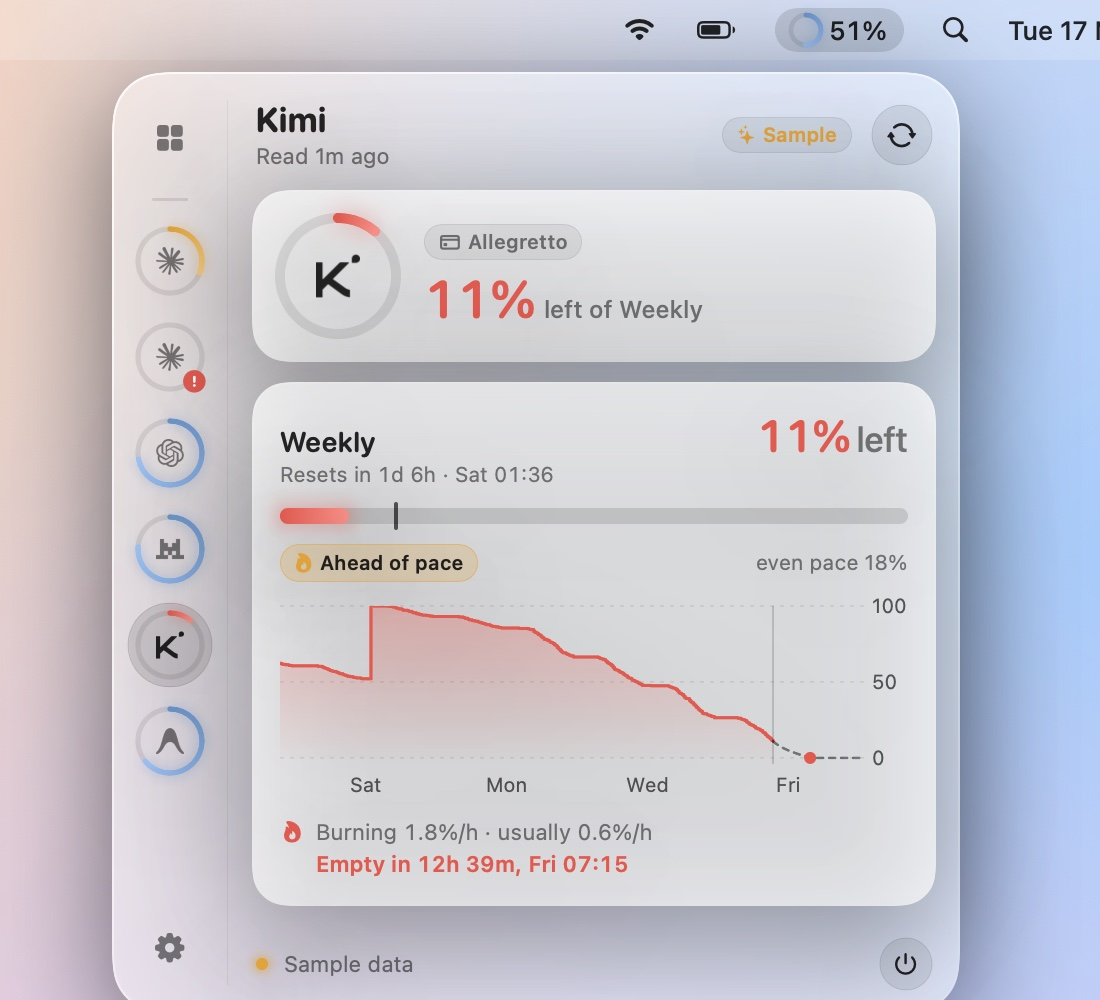
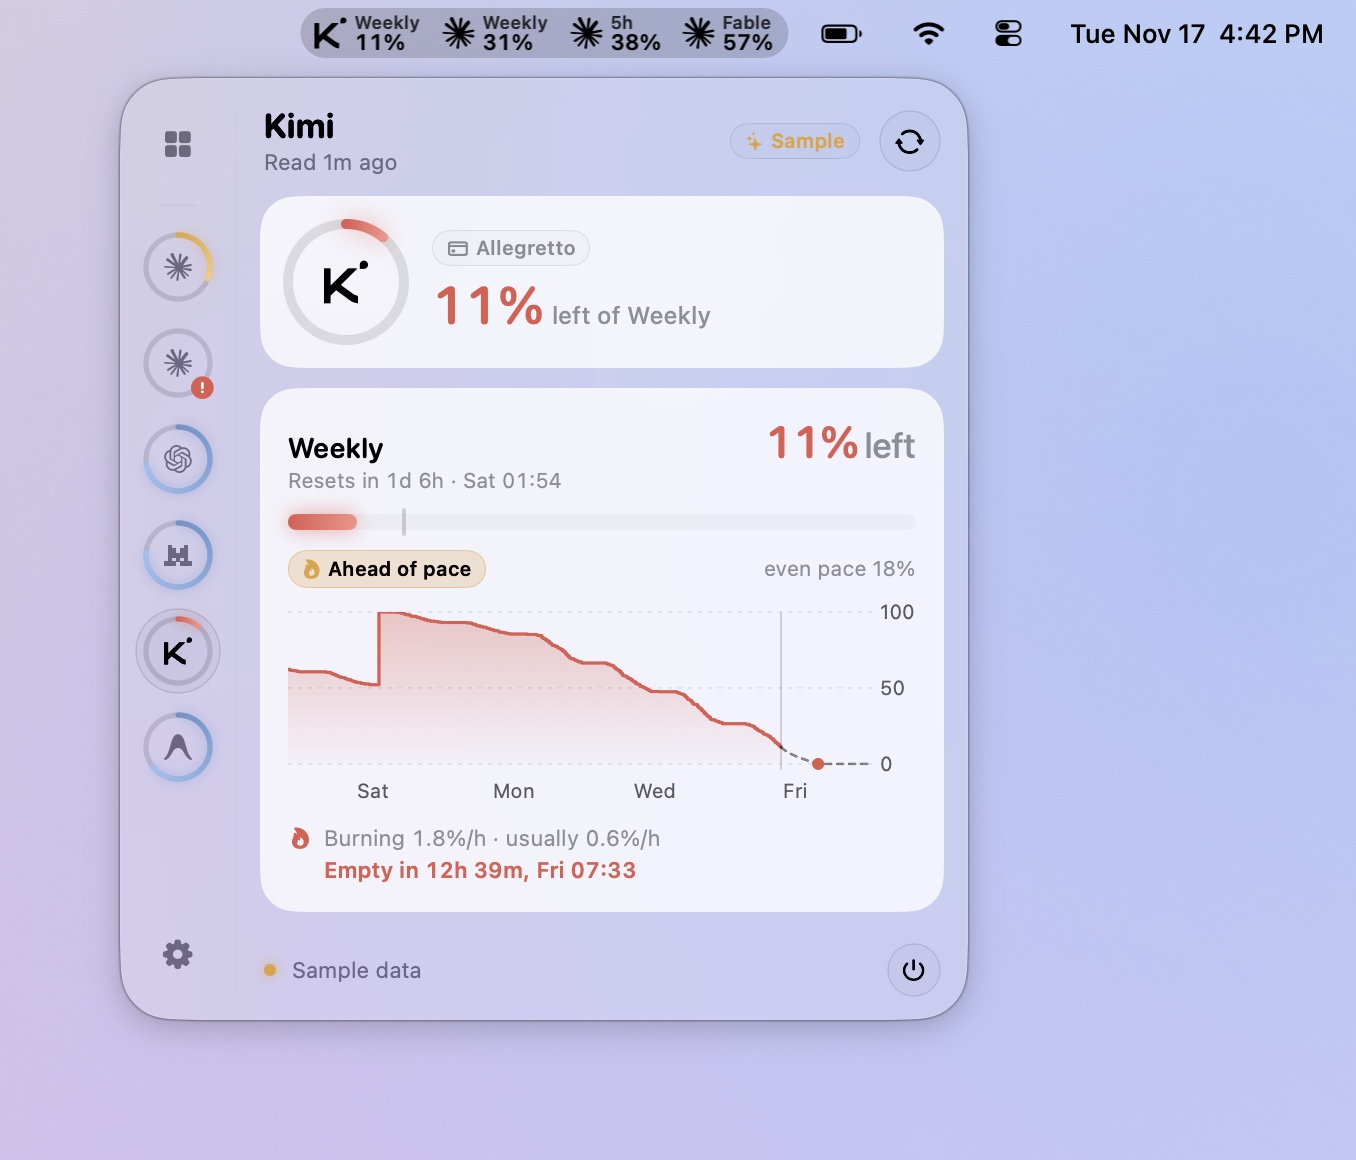
Mac pictures in real Liquid Glass
AiUsageMac --demo --live-shot poses the real panel over a wallpaper of its
own, with a menu bar of its own holding the app's real item, and leaves the
picture to screencapture: the window server draws glass only on screen. No
part of the real menu bar or desktop gets into it.

diff --git a/my-usage-mac/Sources/AiUsageMac/StatusController.swift b/my-usage-mac/Sources/AiUsageMac/StatusController.swift
@@ -129,6 +129,10 @@ final class StatusController: NSObject {
             let walls = CommandLine.arguments[(index + 2)...].prefix { !$0.hasPrefix("--") }
             Task { await Showcase.render(model: model, to: folder, wallpapers: Array(walls)) }
         }
+        if let index = CommandLine.arguments.firstIndex(of: "--live-shot"), index + 3 < CommandLine.arguments.count {
+            let args = CommandLine.arguments
+            Task { await liveShots(dark: args[index + 1], light: args[index + 2], folder: URL(fileURLWithPath: args[index + 3])) }
+        }
         if let index = CommandLine.arguments.firstIndex(of: "--snapshot"), index + 1 < CommandLine.arguments.count {
             let folder = URL(fileURLWithPath: CommandLine.arguments[index + 1])
             Task { await snapshots(to: folder) }
@@ -186,7 +190,9 @@ final class StatusController: NSObject {
     }
 
     private func close() {
-        guard isOpen else { return }
+        // While posing for `--live-shot`, focus moving to the backdrop is not
+        // the user leaving the panel.
+        guard isOpen, shotScreen == nil else { return }
         isOpen = false
         generation += 1
         let closing = generation
@@ -304,7 +310,7 @@ final class StatusController: NSObject {
 
     /// Under the status item, top edge fixed, nudged inside the screen.
     private func frame(height: CGFloat, anchor: NSRect) -> NSRect {
-        let screen = statusItem.button?.window?.screen ?? NSScreen.main
+        let screen = shotScreen ?? statusItem.button?.window?.screen ?? NSScreen.main
         let visible = screen?.visibleFrame ?? NSRect(x: 0, y: 0, width: 1440, height: 900)
         let width = PanelView.width
         let h = min(height, Self.maxHeight, visible.height - Self.gap * 2)
@@ -329,6 +335,90 @@ final class StatusController: NSObject {
         log.notice("resize to \(height, privacy: .public): window \(NSStringFromRect(self.panel.frame), privacy: .public) content \(NSStringFromRect(self.hosting.frame), privacy: .public)")
         contentFrameChanged()
         panel.invalidateShadow()
+    }
+
+    // MARK: Pictures of the real panel
+
+    /// The screen the panel is pictured on, in `--live-shot`; nil otherwise.
+    private var shotScreen: NSScreen?
+
+    /// The real panel, real Liquid Glass and all, over a wallpaper of our own,
+    /// for pictures (`--demo --live-shot <dark wallpaper> <light wallpaper> <folder>`).
+    /// The window server draws glass only on screen, so a picture of it has to
+    /// be a screen capture, and this app may not take one. So it sets each pose
+    /// up on the sharpest screen, writes `<pose>.rect` (the area to capture, in
+    /// `screencapture -R` coordinates) into the folder, and waits for
+    /// `<pose>.done` from whoever takes the picture.
+    private func liveShots(dark: String, light: String, folder: URL) async {
+        guard let screen = NSScreen.screens.max(by: { $0.backingScaleFactor < $1.backingScaleFactor }),
+              let main = NSScreen.screens.first else { return }
+        try? FileManager.default.createDirectory(at: folder, withIntermediateDirectories: true)
+        try? await Task.sleep(for: .seconds(1))
+        shotScreen = screen
+
+        // Above the real menu bar, so none of its items get into the picture,
+        // and below the panel: the panel's glass is drawn over it for real.
+        let backdrop = NSWindow(contentRect: screen.frame, styleMask: [.borderless], backing: .buffered, defer: false)
+        backdrop.level = NSWindow.Level(rawValue: NSWindow.Level.statusBar.rawValue + 1)
+        backdrop.hasShadow = false
+        backdrop.ignoresMouseEvents = true
+        let bar = screen.frame.maxY - screen.visibleFrame.maxY
+        let wall = ShotBackdrop(frame: NSRect(origin: .zero, size: screen.frame.size), barHeight: bar)
+        backdrop.contentView = wall
+        backdrop.setFrame(screen.frame, display: true)
+        let level = panel.level
+        panel.level = NSWindow.Level(rawValue: backdrop.level.rawValue + 1)
+
+        let account = model.ordered.first(where: \.isOK)?.account ?? "claude"
+        let poses: [(name: String, look: NSAppearance.Name, wall: String, pane: Pane)] = [
+            ("dark-overview", .darkAqua, dark, .overview), ("dark-account", .darkAqua, dark, .account(account)),
+            ("light-overview", .aqua, light, .overview), ("light-account", .aqua, light, .account(account)),
+        ]
+        for pose in poses {
+            NSApp.appearance = NSAppearance(named: pose.look)
+            wall.wallpaper = NSImage(contentsOfFile: pose.wall)
+            wall.dark = pose.look == .darkAqua
+            wall.item = statusItem.button?.image
+            model.pane = pose.pane
+            try? await Task.sleep(for: .milliseconds(400))
+            wall.item = statusItem.button?.image
+            backdrop.orderFrontRegardless()
+            // Drawn now, not later: the panel is placed by where the item lands.
+            wall.display()
+
+            let visible = screen.visibleFrame
+            // Under the drawn item, as the panel hangs under the real one.
+            let item = backdrop.convertToScreen(wall.convert(wall.itemRect, to: nil))
+            anchor = NSRect(x: item.minX, y: visible.maxY, width: item.width, height: item.height)
+            isOpen = true
+            panel.alphaValue = 1
+            panel.setFrame(frame(height: desiredHeight, anchor: anchor!), display: true)
+            panel.orderFrontRegardless()
+            try? await Task.sleep(for: .seconds(1.5))
+            panel.setFrame(frame(height: max(desiredHeight, 300), anchor: anchor!), display: true)
+            panel.invalidateShadow()
+            try? await Task.sleep(for: .seconds(1.5))
+
+            // The drawn menu bar from the item rightwards, and the panel with
+            // its shadow under it.
+            let left = min(panel.frame.minX, item.minX) - 60
+            // Short of the top-right corner, where the system's own privacy
+            // indicators sit above every window.
+            let area = NSRect(x: left, y: panel.frame.minY - 70, width: screen.frame.maxX - 30 - left,
+                              height: screen.frame.maxY - (panel.frame.minY - 70)).intersection(screen.frame)
+            let top = main.frame.maxY - area.maxY
+            let rect = "\(Int(area.minX)),\(Int(top)),\(Int(area.width)),\(Int(area.height))"
+            try? rect.write(to: folder.appendingPathComponent("\(pose.name).rect"), atomically: true, encoding: .utf8)
+            let done = folder.appendingPathComponent("\(pose.name).done")
+            for _ in 0..<120 where !FileManager.default.fileExists(atPath: done.path) {
+                try? await Task.sleep(for: .milliseconds(250))
+            }
+            panel.orderOut(nil)
+            isOpen = false
+        }
+        backdrop.orderOut(nil)
+        panel.level = level
+        NSApplication.shared.terminate(nil)
     }
 
     // MARK: The menu bar item
@@ -571,5 +661,63 @@ enum MenuBarLimits {
     /// "Fable weekly" stays; a longer name is cut so one entry cannot crowd the bar.
     private static func short(_ label: String) -> String {
         label.count <= 12 ? label : String(label.prefix(11)) + "…"
+    }
+}
+
+
+/// What `--live-shot` puts behind the panel: a wallpaper, and over its top a
+/// menu bar of its own, with the app's real item in it and a few of the
+/// system's, so the picture shows the item without anyone's own menu bar.
+final class ShotBackdrop: NSView {
+    var wallpaper: NSImage?
+    var item: NSImage?
+    var dark = true
+    private let barHeight: CGFloat
+    /// Where the item is drawn, in this view's coordinates.
+    private(set) var itemRect = NSRect.zero
+
+    init(frame: NSRect, barHeight: CGFloat) {
+        self.barHeight = barHeight
+        super.init(frame: frame)
+    }
+
+    required init?(coder: NSCoder) { fatalError() }
+
+    override func draw(_ dirtyRect: NSRect) {
+        wallpaper?.draw(in: bounds)
+        let ink: NSColor = dark ? .white : .black
+        let midY = bounds.maxY - barHeight / 2
+        var x = bounds.maxX - 46
+
+        let clock = NSAttributedString(string: "Tue Nov 17  4:42 PM", attributes: [
+            .font: NSFont.systemFont(ofSize: 13, weight: .medium), .foregroundColor: ink,
+        ])
+        x -= clock.size().width
+        clock.draw(at: NSPoint(x: x, y: midY - clock.size().height / 2))
+
+        for symbol in ["switch.2", "wifi", "battery.75percent"] {
+            guard let image = NSImage(systemSymbolName: symbol, accessibilityDescription: nil)?
+                .withSymbolConfiguration(.init(pointSize: 14, weight: .regular)) else { continue }
+            x -= 22 + image.size.width
+            Self.tinted(image, ink).draw(in: NSRect(x: x, y: midY - image.size.height / 2, width: image.size.width, height: image.size.height))
+        }
+
+        guard let item else { return }
+        x -= 22 + item.size.width
+        itemRect = NSRect(x: x - 7, y: bounds.maxY - barHeight + 4, width: item.size.width + 14, height: barHeight - 8)
+        // Highlighted, as the item is while its panel is open.
+        ink.withAlphaComponent(0.16).setFill()
+        NSBezierPath(roundedRect: itemRect, xRadius: itemRect.height / 2, yRadius: itemRect.height / 2).fill()
+        Self.tinted(item, ink).draw(in: NSRect(x: x, y: midY - item.size.height / 2, width: item.size.width, height: item.size.height))
+    }
+
+    /// A template image in the bar's colour, as the menu bar draws one.
+    private static func tinted(_ image: NSImage, _ color: NSColor) -> NSImage {
+        NSImage(size: image.size, flipped: false) { rect in
+            image.draw(in: rect)
+            color.set()
+            rect.fill(using: .sourceAtop)
+            return true
+        }
     }
 }

diff --git a/README.md b/README.md
@@ -21,7 +21,7 @@ Claude · ChatGPT · Mistral · Kimi · Muse · Google AI (Antigravity)
 </picture>
 </p>
 
-<p align="center"><sub>The macOS app, with sample data. Every picture here is made-up usage.</sub></p>
+<p align="center"><sub>The macOS app, with sample data: the menu bar shows the four limits closest to running out, the panel everything. Every picture here is made-up usage.</sub></p>
 
 ## What it tells you
 
